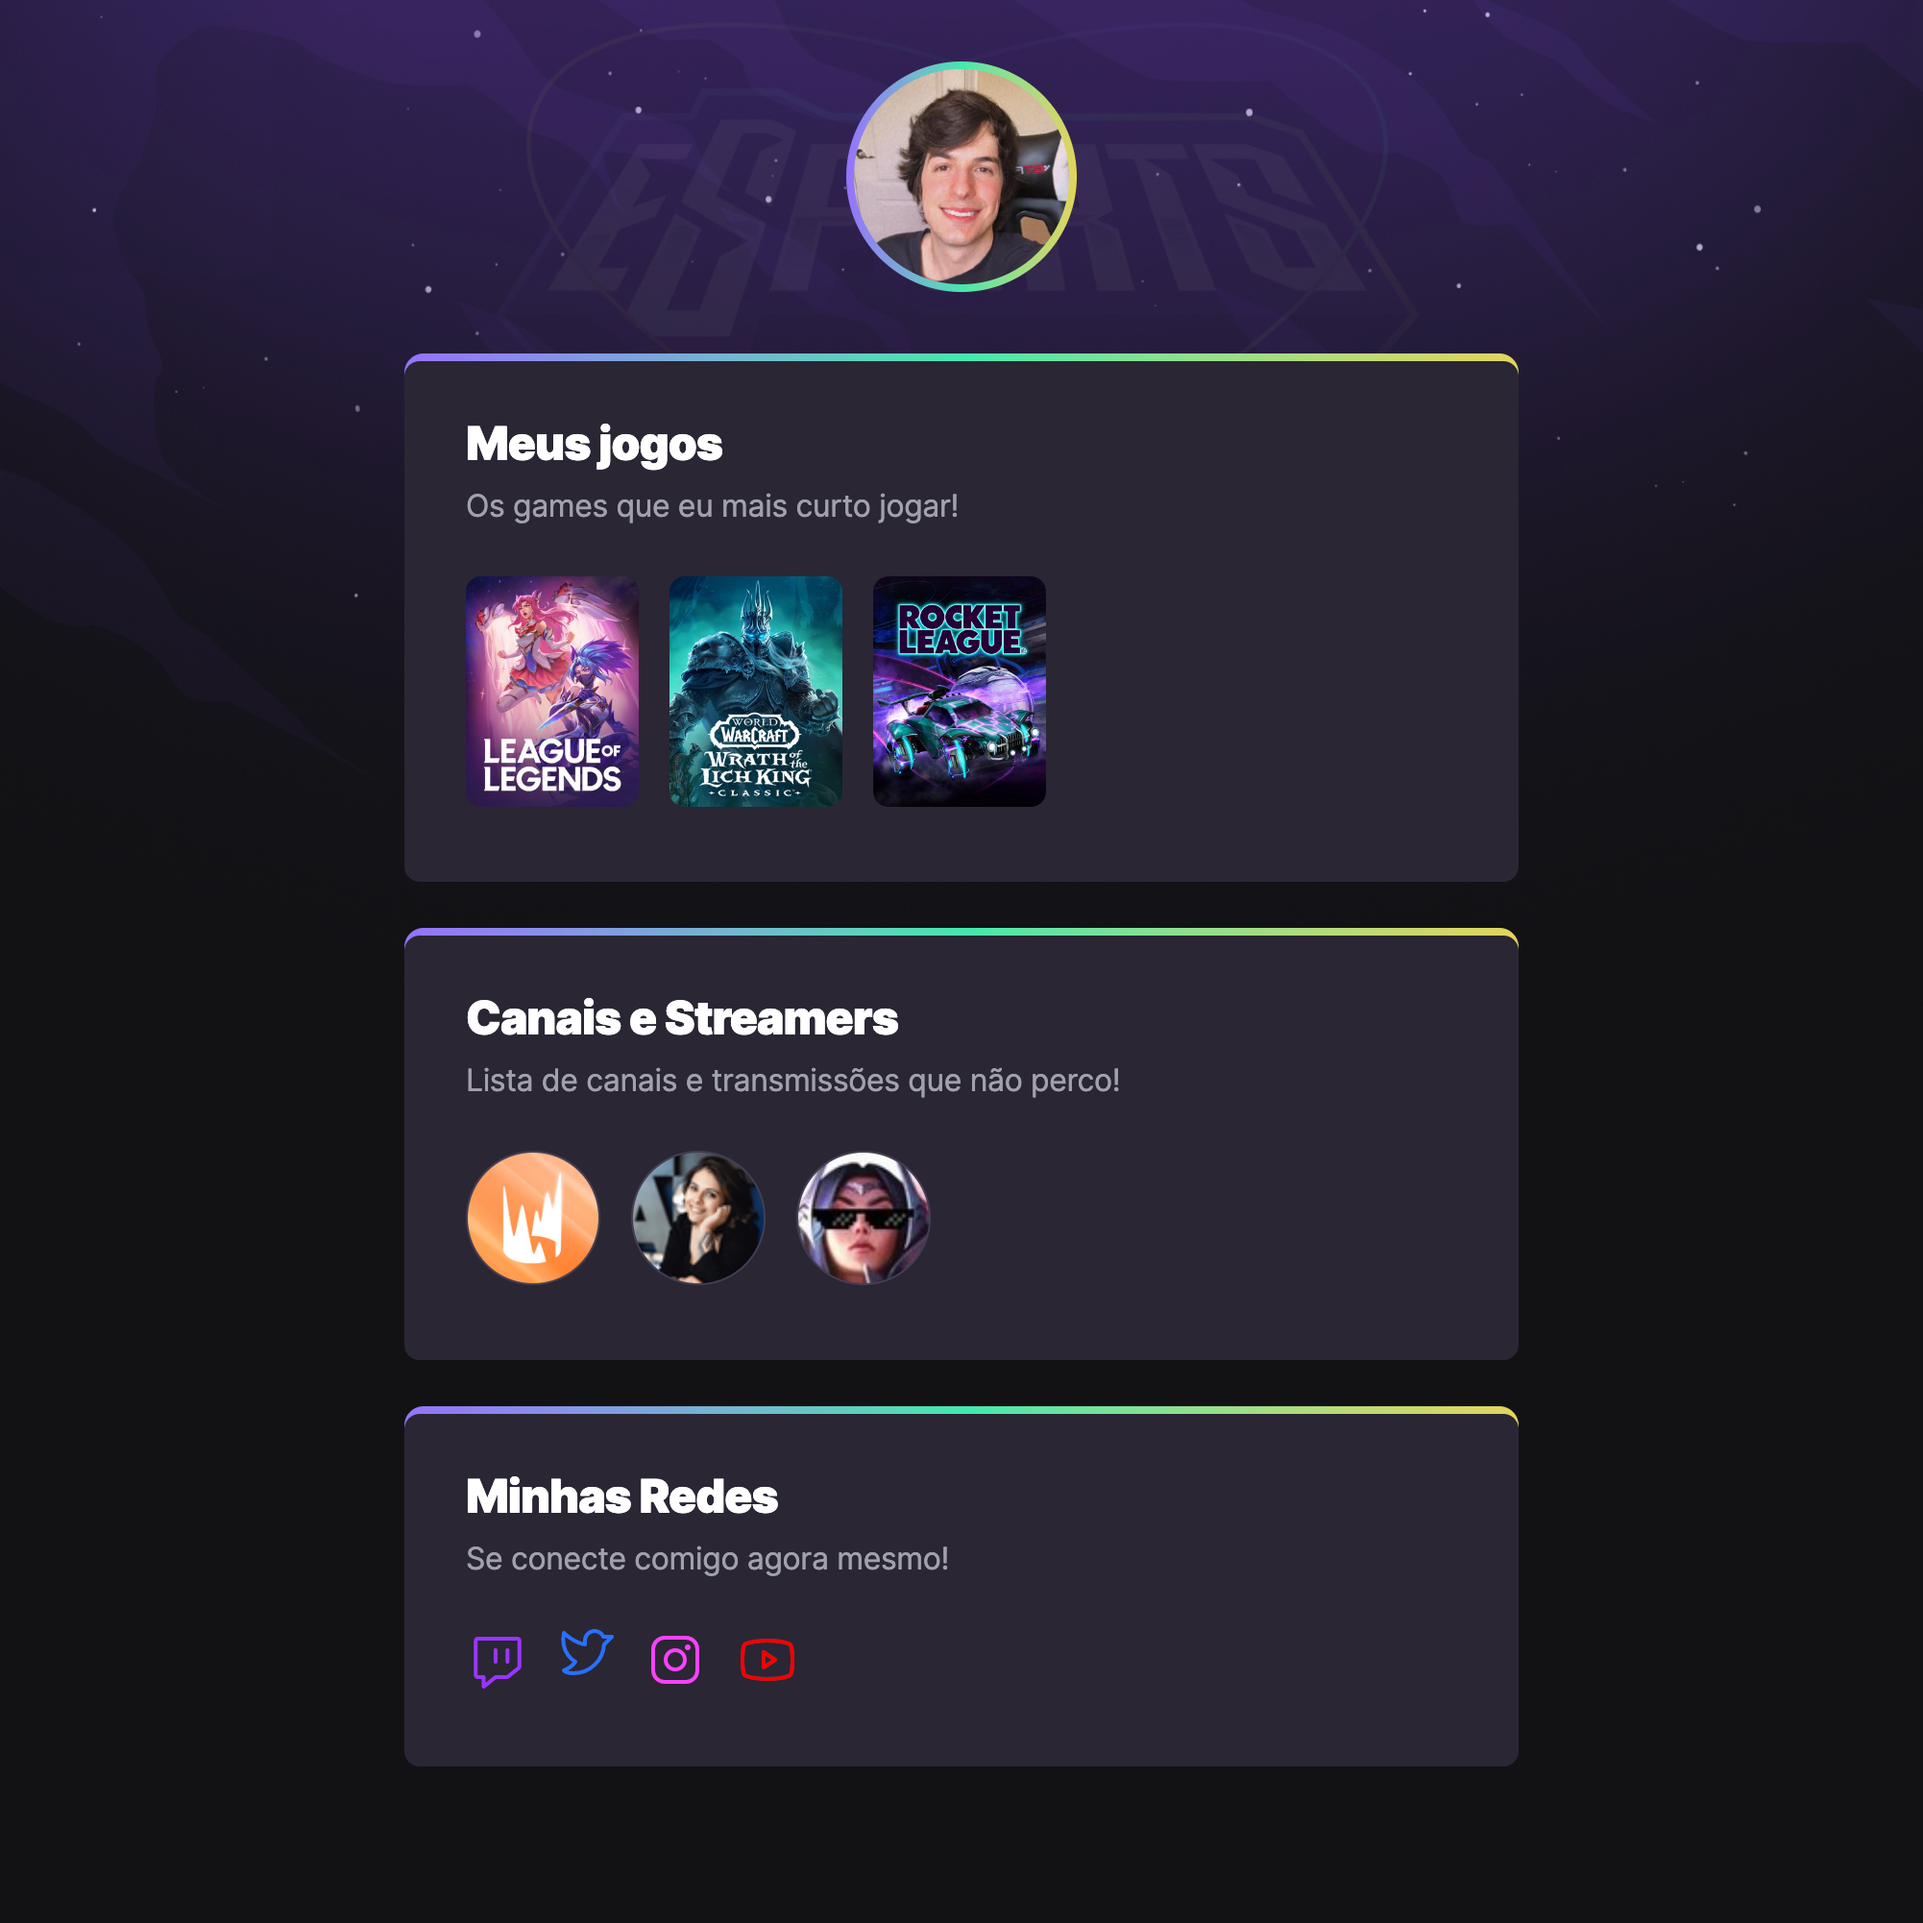
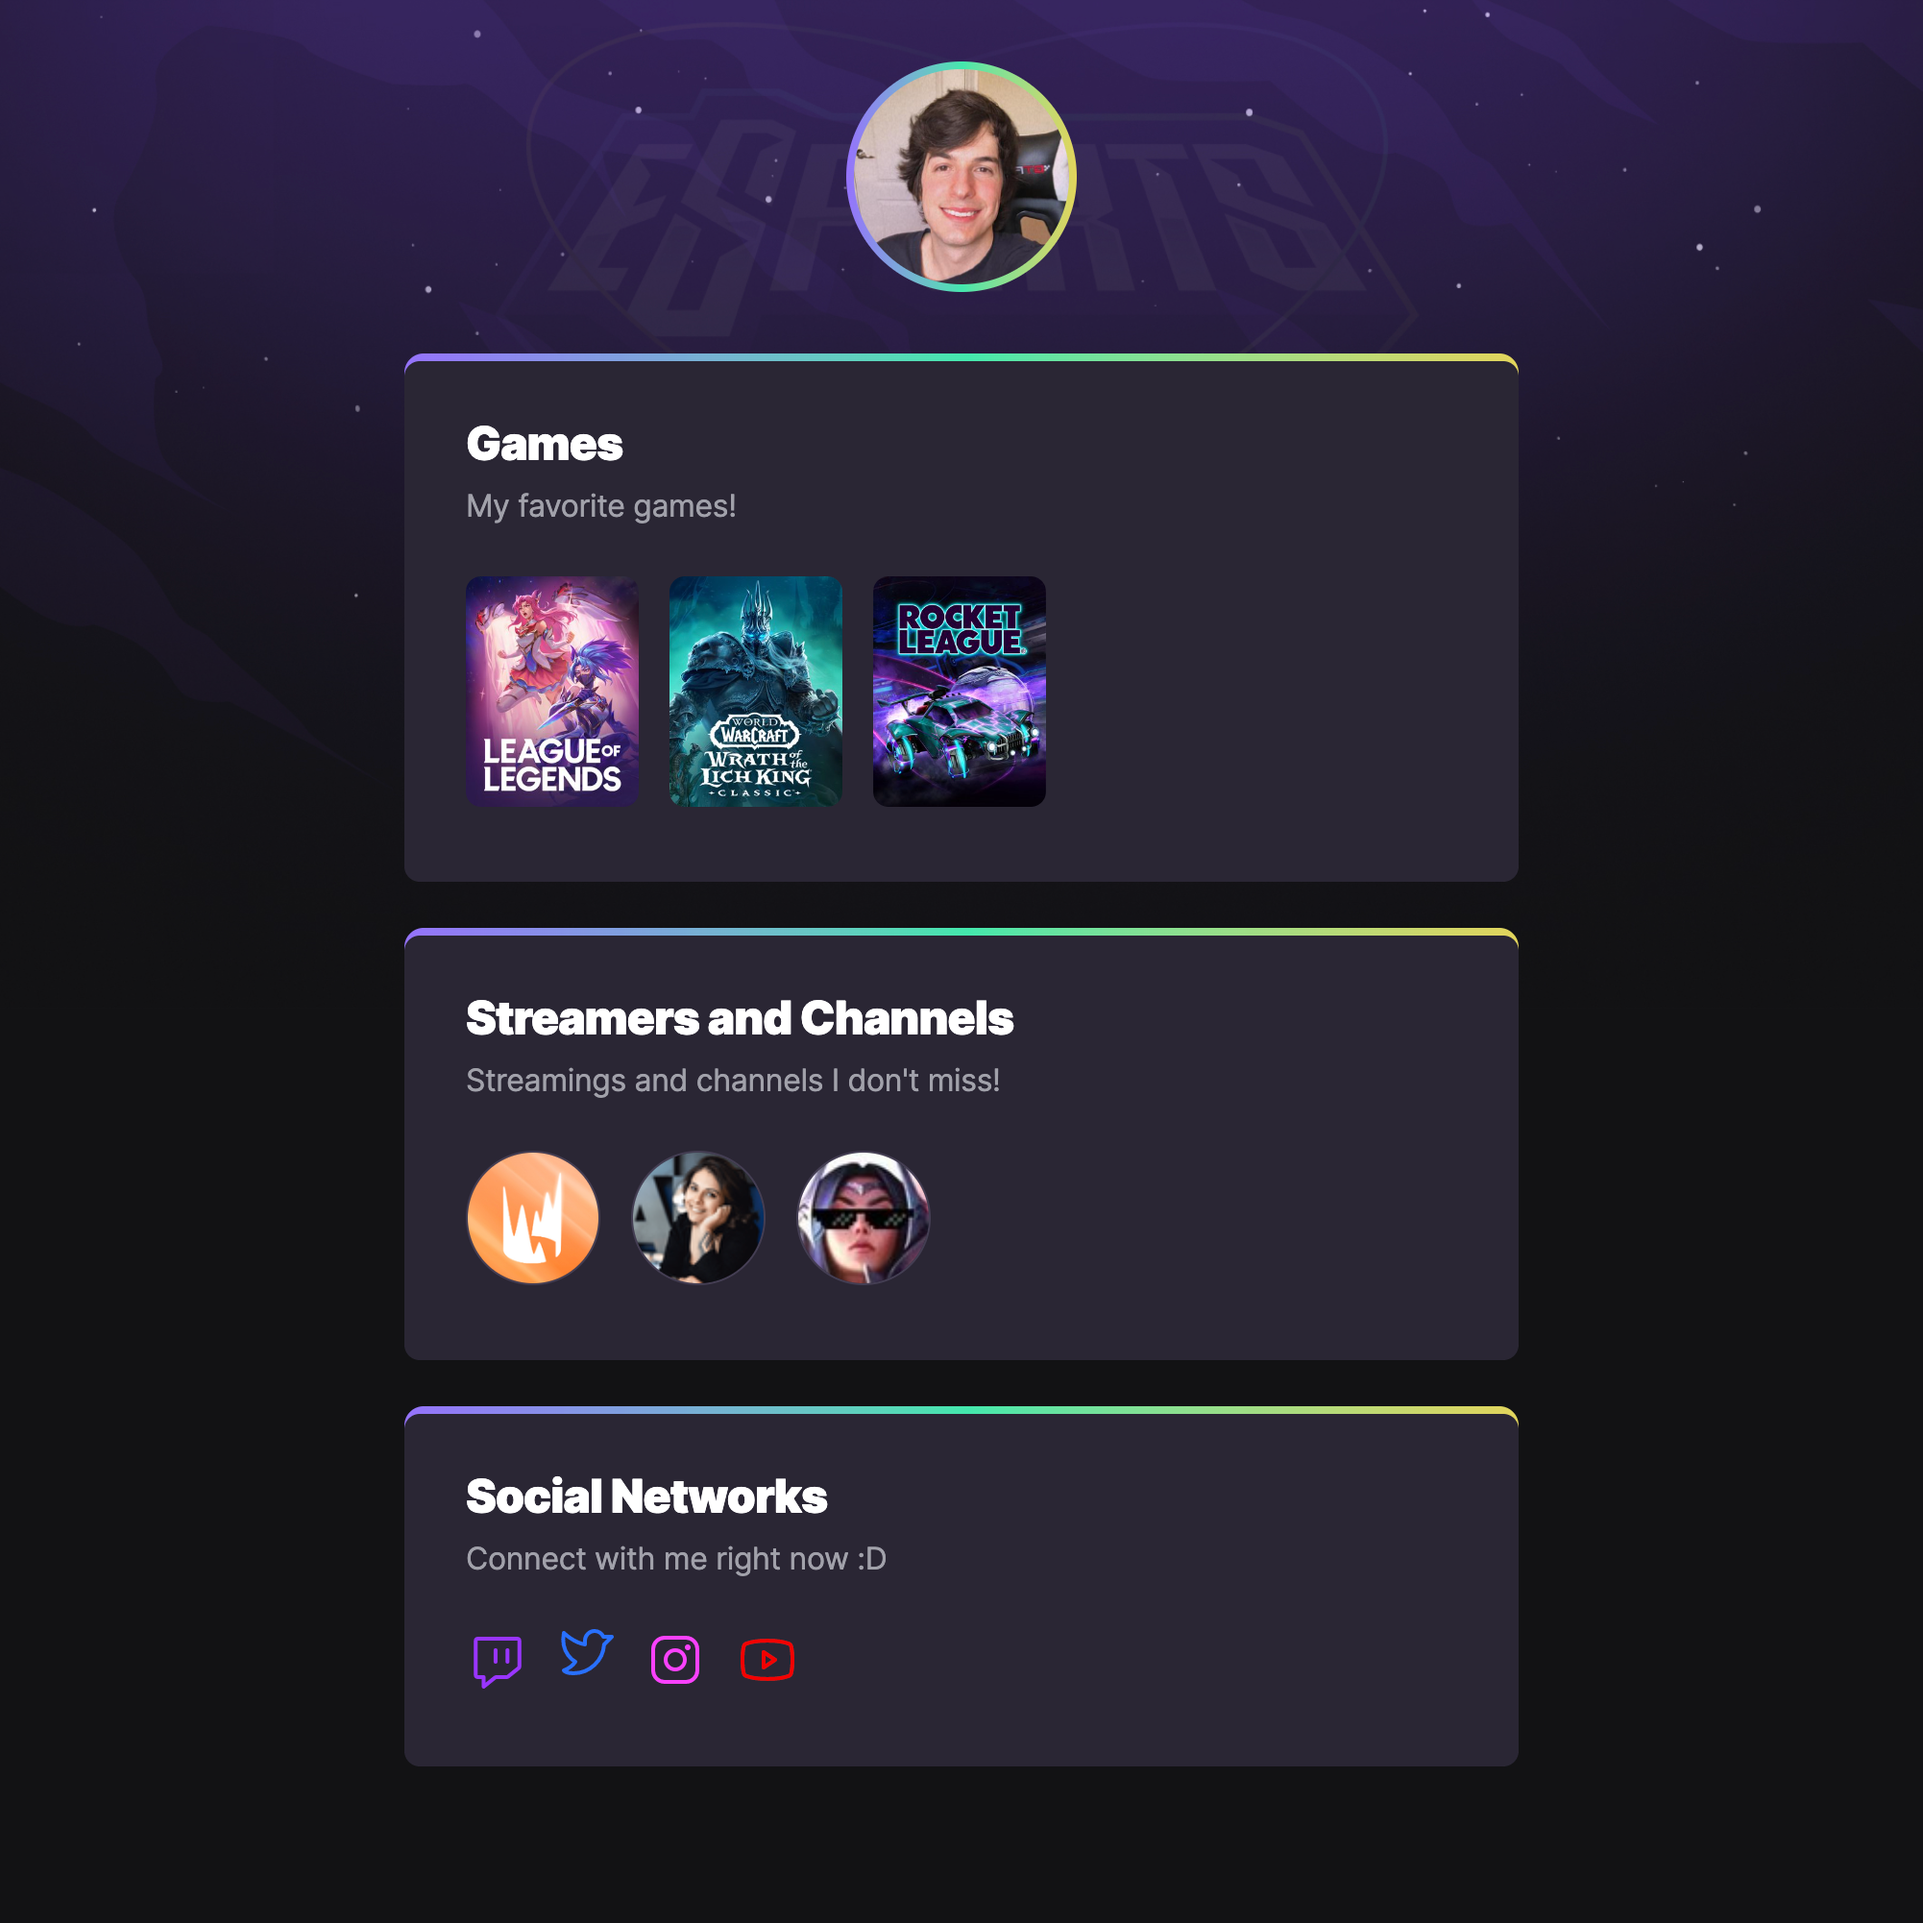
README.md

Changed region(s): [[0.2478, 0.4955, 0.5884, 0.5884], [0.2478, 0.7433, 0.4955, 0.8362], [0.2478, 0.2168, 0.4955, 0.2787]]

diff --git a/events/next-level-week/nlw-esports/explorer/en/index.html b/events/next-level-week/nlw-esports/explorer/en/index.html
@@ -25,8 +25,8 @@
 
     <section>
       <div>
-        <h2>Meus jogos</h2>
-        <p>Os games que eu mais curto jogar!</p>
+        <h2>Games</h2>
+        <p>My favorite games!</p>
 
         <ul class="games-list">
           <li>
@@ -58,8 +58,8 @@
 
     <section>
       <div>
-        <h2>Canais e Streamers</h2>
-        <p>Lista de canais e transmissões que não perco!</p>
+        <h2>Streamers and Channels</h2>
+        <p>Streamings and channels I don&#39;t miss!</p>
 
         <ul class="channel-list">
           <li>
@@ -91,8 +91,8 @@
 
     <section>
       <div>
-        <h2>Minhas Redes</h2>
-        <p>Se conecte comigo agora mesmo!</p>
+        <h2>Social Networks</h2>
+        <p>Connect with me right now :D</p>
 
         <ul class="social-list">
           <li>

diff --git a/events/next-level-week/nlw-esports/explorer/en/README.md b/events/next-level-week/nlw-esports/explorer/en/README.md
@@ -8,7 +8,7 @@
   <img alt="Landing page showing favorite games, channels, streamers and social networks." src=".github/nlw-esports-explorer.png" width="80%" />
 </p>
 
-<br>git
+<br>
 
 ## 📝 Live Preview 
 
